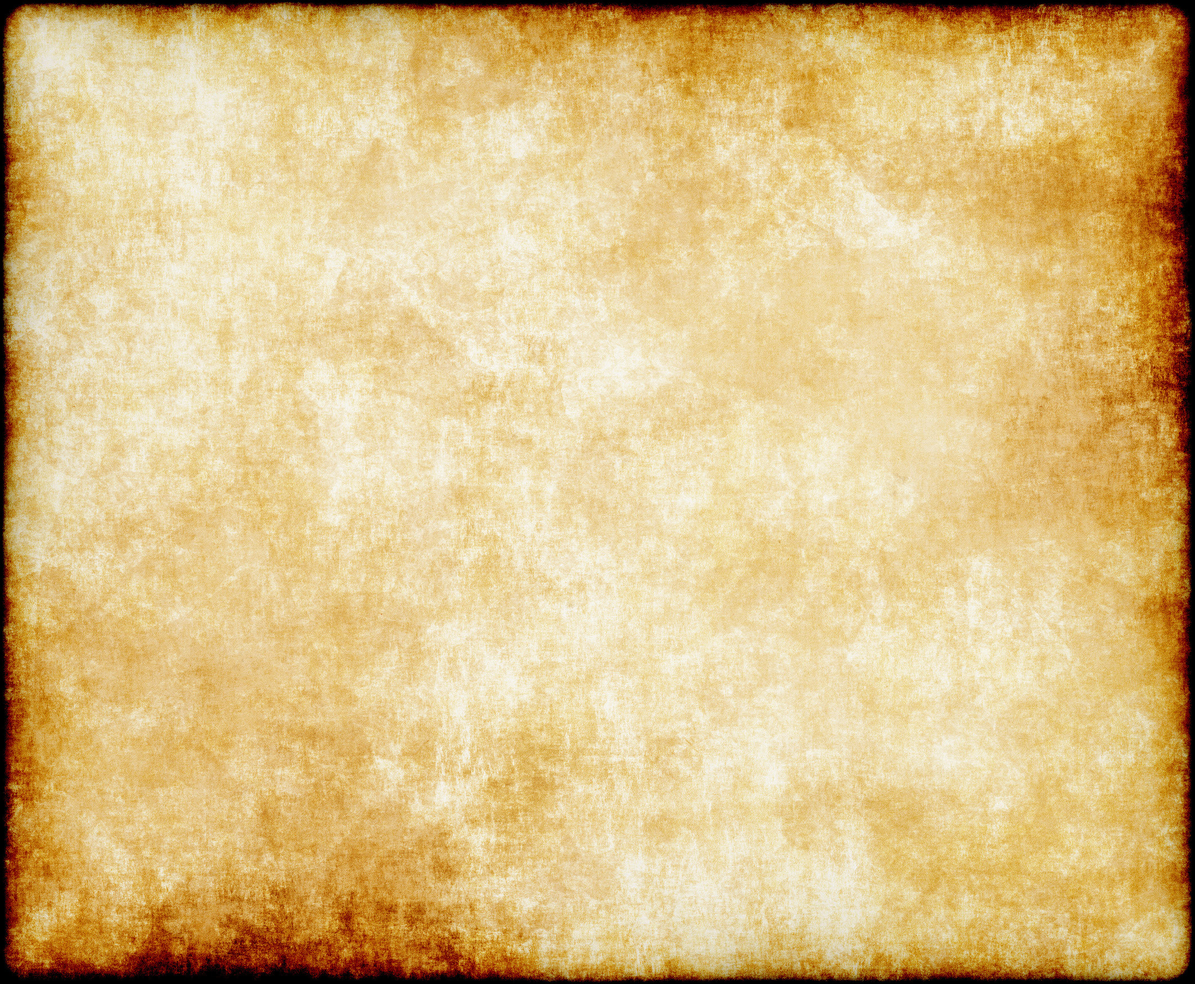
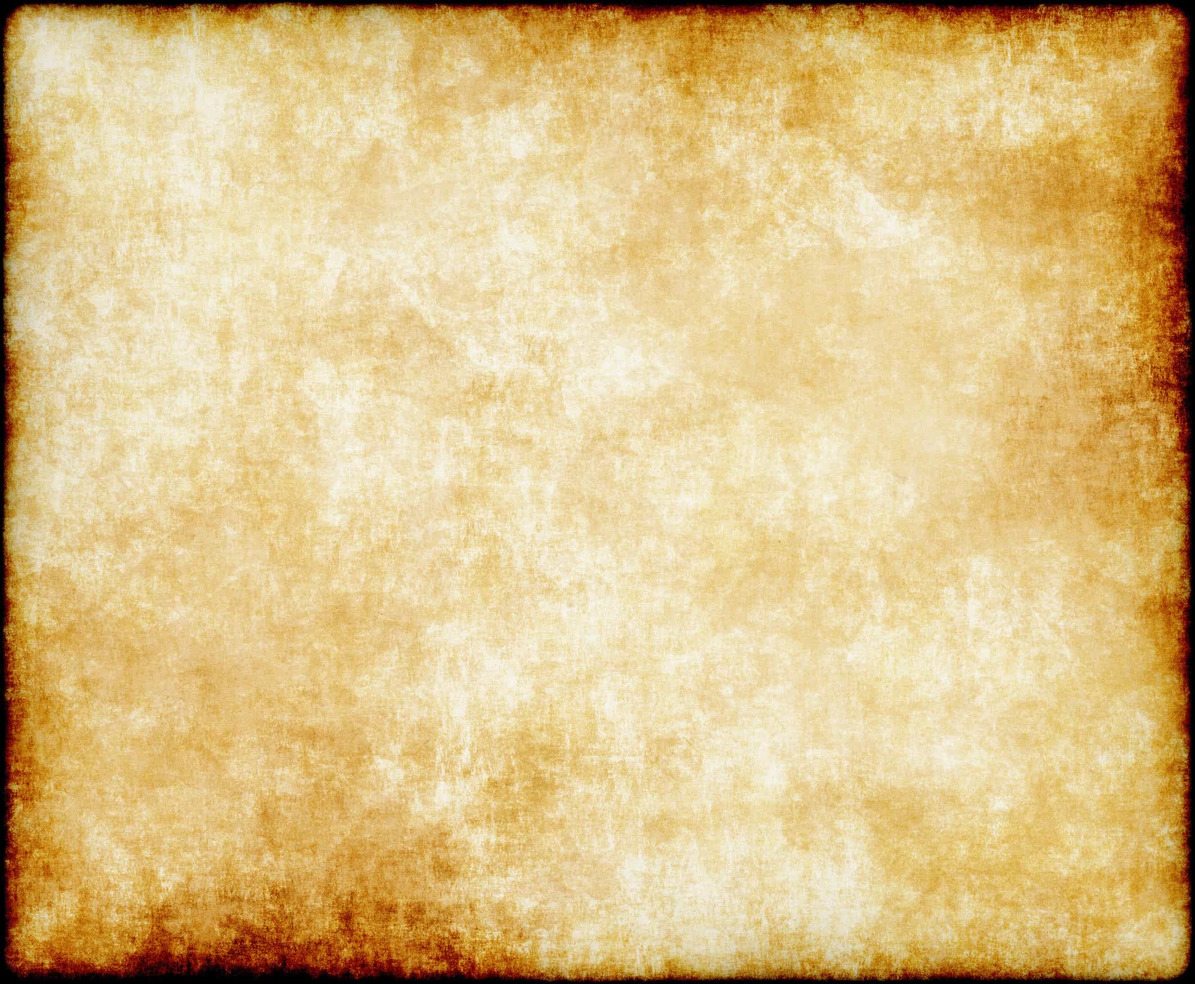
Easy bandwidth savings
The background image and uncompressed, megabytes-long HTML files now take up
significantly less bandwidth.

Comes with some drive-by changes:
* Added README so that the next backend developer won't have to figure it out.
* Standardized the typography of "AOE2: DE", going with the more common one.
* Updated the console log message to be more accurate, especially when a
  `PORT` env var is passed.

Changed region(s): [[0.0, 0.0, 1.0, 1.0], [0.6833, 0.5246, 0.7454, 0.6171], [0.7454, 0.7406, 0.7765, 0.7714]]

diff --git a/app.js b/app.js
@@ -1,8 +1,12 @@
 const path = require('path')
 const express = require('express')
+const compression = require('compression')
 const app = express()
 const server = require('http').Server(app)
 var dir = path.join(__dirname, 'public')
+
+app.use(compression())
+
 app.use('/villagers-required.html', (req, res) => {
   res.redirect('/villagers-required/')
 })
@@ -20,5 +24,7 @@ app.use('/wood-calc.html', (req, res) => {
 })
 
 app.use(express.static(dir))
-server.listen(process.env.PORT || 5000)
-console.log('Multiplayer app listening on port 5000')
+
+const port = process.env.PORT || 5000
+server.listen(port)
+console.log(`AOE2: DE tools app listening on port ${port}`)

diff --git a/src/index.html b/src/index.html
@@ -6,7 +6,7 @@ and open the template in the editor.
 -->
 <html>
     <head>
-        <title>AOE 2: DE</title>
+        <title>AOE2: DE</title>
         <meta charset="UTF-8">
         <meta name="viewport" content="width=device-width, initial-scale=1.0">
         

diff --git a/README.md b/README.md
@@ -1,0 +1,22 @@
+# AOE2: DE Tools
+
+Hosted at https://aoe2-de-tools.herokuapp.com/
+
+## Local development
+
+### Prerequisites
+
+* [Node.js](https://nodejs.org/en/download/)
+* [npx](https://www.npmjs.com/package/npx)
+
+### Running the app
+
+1. In the command line:
+
+```shell
+npm install # Install dependencies
+npx @11ty/eleventy # Build static files
+node app.js # Start the server
+```
+
+2. Visit http://localhost:5000/ (or whichever port is indicated by the last command's output)
